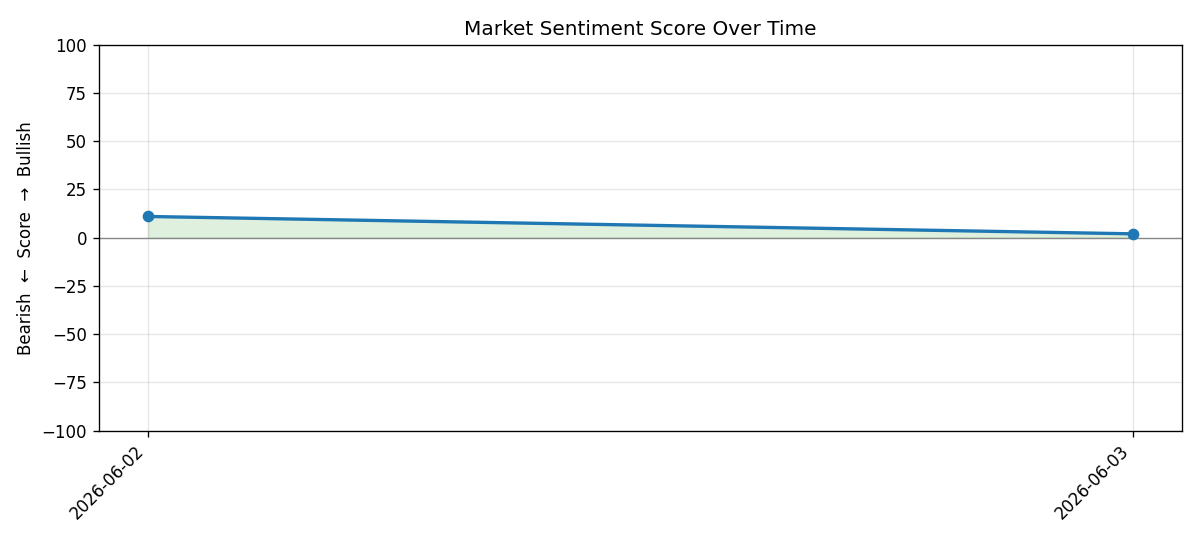
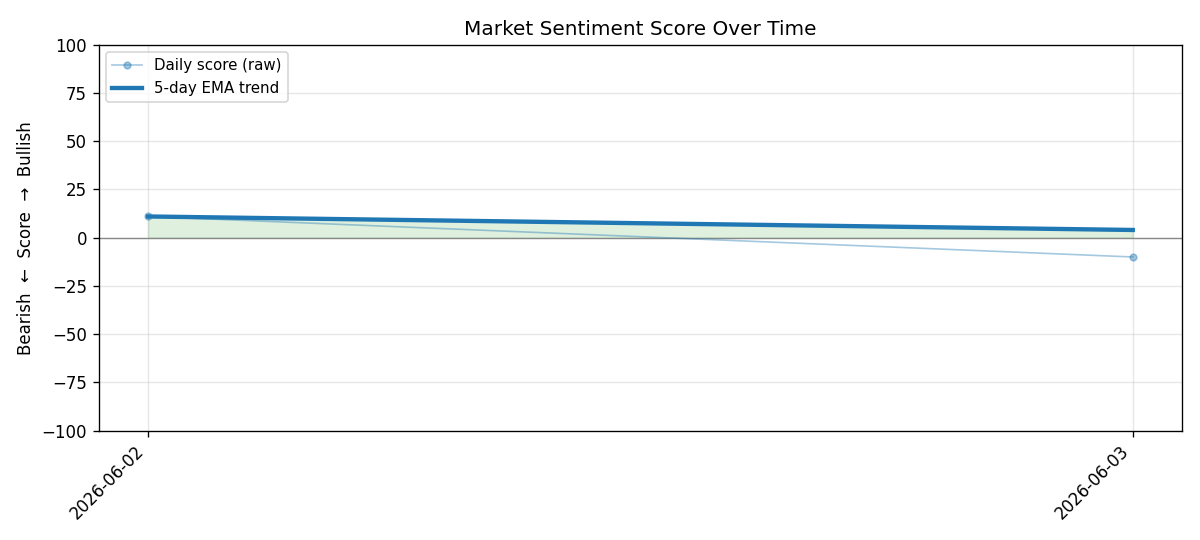
PDF: charts on own page, fix Sector Watch blank page, dual sector benchmarks
- Trend charts now get their own PDF page (enlarged 12cm → 17cm to match).
- Fix Sector Watch silently vanishing (blank page): a local `sector_watch = []`
  shadowed the imported module, so build_sector_watch() raised AttributeError
  and was swallowed. Renamed the local to `watch_rows`.
- build_html now drops empty sections (and their page breaks) so a missing block
  never leaves a blank page again.
- Sector Watch relative strength is now measured against the right benchmark:
  tech baskets (Hyperscalers, Memory, Semis, Networking, SaaS) vs the Nasdaq 100,
  the rest (Banking, Consumer, Pharma/Healthcare) vs the S&P 500. Each row is
  tagged with its benchmark in the table and markdown.

44 tests pass.

Changed region(s): [[0.1233, 0.3852, 0.9558, 0.4741], [0.0925, 0.0889, 0.2467, 0.2074], [0.925, 0.4741, 0.9558, 0.5037]]

diff --git a/pdf_report.py b/pdf_report.py
@@ -44,8 +44,8 @@ tr:nth-child(even) td { background: #f3f6fa; }
 .news-src { color: #888; font-size: 8.5pt; }
 .news-sum { color: #444; font-size: 9pt; }
 .note { background: #fdecea; border-left: 5px solid #c0392b; padding: 6px 10px; }
-/* Charts sit on the dashboard page, so keep them small enough to fit together. */
-img { width: 12cm; }
+/* Charts have their own page, so they can run close to the full text width. */
+img { width: 17cm; }
 """
 
 
@@ -131,7 +131,13 @@ def _sector_watch_block(rows: list) -> str:
     body = ""
     for r in rows:
         move = _chg(r.get("move_pct"), pct=True) if r.get("move_pct") is not None else "n/a"
-        rs = _chg(r.get("rel_strength"), pct=True) if r.get("rel_strength") is not None else "n/a"
+        rs_val = r.get("rel_strength")
+        if rs_val is not None:
+            # Tag each row with the benchmark it's measured against (Nasdaq / S&P).
+            bench = r.get("benchmark", "S&P").replace("&", "&amp;")
+            rs = f'{_chg(rs_val, pct=True)} <span class="news-src">vs {bench}</span>'
+        else:
+            rs = "n/a"
         breadth = f"{r['breadth_pct']}%" if r.get("breadth_pct") is not None else "n/a"
         news = _sentiment_label(r.get("news_score"))
         # Overall: label + numeric score, coloured by sign so resolution isn't lost.
@@ -143,8 +149,9 @@ def _sector_watch_block(rows: list) -> str:
     return (f"<h2>Sector Watch (AI Stack)</h2>"
             f'<p class="news-src">Blended score from relative strength, breadth '
             f"(avg % of the 20/50/200-day MAs the basket trades above), news, "
-            f"volume, and Reddit. Sorted strongest&rarr;weakest.</p>"
-            f"<table><tr><th>Sector</th><th>Move</th><th>vs S&amp;P</th>"
+            f"volume, and Reddit. Relative strength is vs the Nasdaq for tech "
+            f"baskets and the S&amp;P for the rest. Sorted strongest&rarr;weakest.</p>"
+            f"<table><tr><th>Sector</th><th>Move</th><th>Rel. Str.</th>"
             f"<th>Breadth</th><th>News</th><th>Overall</th></tr>{body}</table>")
 
 
@@ -220,25 +227,29 @@ def build_html(date_str: str, prose_md: str, gainers: list, news: list,
     note = f'<div class="note">{stale_note}</div>' if stale_note else ""
     prose_html = md.markdown(prose_md or "", extensions=["extra"])
     dash_html = _dashboard_block(dashboard) if dashboard else ""
-    pb = '<div style="page-break-before: always;"></div>'   # one section per page
+
+    tables = _market_tables(market_data)
+    snapshot = f"<h2>Market Snapshot</h2>{tables}" if tables else ""
+    analyst = f"<h2>Analyst Summary</h2>{prose_html}" if prose_html.strip() else ""
+
+    # One section per page. Empty sections are dropped entirely (with their page
+    # break) so a missing block — e.g. a day the sector watch can't be built —
+    # never leaves a blank page behind. Charts get their own page.
+    pages = [
+        dash_html + _divergence_block(dashboard or {}),   # page 1: tone + divergence
+        _charts_block(chart_paths),                        # trend charts — own page
+        _sector_watch_block(sector_watch),                 # sector watch — own page
+        _gainers_block(gainers) + _news_block(news),       # gainers + news
+        snapshot,                                          # market snapshot
+        analyst,                                           # analyst summary
+    ]
+    pb = '<div style="page-break-before: always;"></div>'
+    body = pb.join(p for p in pages if p and p.strip())
     return f"""<html><head><meta charset="utf-8"><style>{CSS}</style></head><body>
 <h1>Daily Market Summary</h1>
 <div class="subtitle">{date_str}</div>
 {note}
-{dash_html}
-{_divergence_block(dashboard or {})}
-{_charts_block(chart_paths)}
-{pb}
-{_sector_watch_block(sector_watch)}
-{pb}
-{_gainers_block(gainers)}
-{_news_block(news)}
-{pb}
-<h2>Market Snapshot</h2>
-{_market_tables(market_data)}
-{pb}
-<h2>Analyst Summary</h2>
-{prose_html}
+{body}
 </body></html>"""
 
 

diff --git a/sector_watch.py b/sector_watch.py
@@ -5,7 +5,8 @@ AI-stack "Sector Watch": a professional-style, multi-metric read of 8 thesis
 baskets. For each basket it measures not just the average move, but *how* the
 sector is behaving underneath — the way a PM reads a sector:
 
-    Relative strength 35%  (sector move vs the S&P — leading or lagging?)
+    Relative strength 35%  (sector move vs its benchmark — leading or lagging?
+                            tech baskets vs the Nasdaq 100, the rest vs the S&P)
     Breadth           25%  (% of the basket above its 20/50/200-day MAs — is the
                             WHOLE sector participating, or a few names carrying it?)
     News sentiment    25%  (FinBERT on a dedicated Google News search)
@@ -95,6 +96,18 @@ SECTOR_BASKETS = {
 }
 
 
+# Relative strength is measured against the benchmark that best fits each basket:
+# the tech / AI-stack baskets track the Nasdaq 100 (their natural high-beta home),
+# while the broader-economy baskets track the S&P 500.
+NASDAQ_BASKETS = {
+    "Hyperscalers & Neoclouds",
+    "Memory (DRAM/NAND/HBM)",
+    "Semiconductors / Compute",
+    "Networking / Interconnect",
+    "SaaS",
+}
+
+
 def _median(values: list):
     """Median of a non-empty numeric list (mean of the two middle values if even)."""
     s = sorted(values)
@@ -175,8 +188,15 @@ def _reddit_sentiment(keywords: list, reddit_titles: list) -> tuple:
     return round(sum(sentiment.score_text(t, "vader") for t in matched) / len(matched), 4), len(matched)
 
 
-def build_sector_watch(reddit_titles: list = None, sp_move: float = None) -> list:
-    """Per-sector multi-metric read. sp_move is the S&P 500 daily % (for RS)."""
+def build_sector_watch(reddit_titles: list = None, sp_move: float = None,
+                        nasdaq_move: float = None) -> list:
+    """Per-sector multi-metric read.
+
+    Relative strength is each basket's move vs its benchmark: the tech baskets
+    (NASDAQ_BASKETS) vs the Nasdaq 100 daily % (`nasdaq_move`), the rest vs the
+    S&P 500 daily % (`sp_move`). If a basket's benchmark move is unavailable, RS
+    is simply omitted and the remaining sub-metrics renormalize.
+    """
     all_tickers = sorted({t for cfg in SECTOR_BASKETS.values() for t in cfg["tickers"]})
     try:
         data = _fetch_history(all_tickers)
@@ -198,10 +218,13 @@ def build_sector_watch(reddit_titles: list = None, sp_move: float = None) -> lis
         breadth_frac = (sum(strengths) / len(strengths)) if strengths else None
         breadth_score = (2 * breadth_frac - 1) if breadth_frac is not None else None
 
-        # Relative strength: sector move vs the S&P.
+        # Relative strength: sector move vs its benchmark (tech → Nasdaq, else S&P).
+        use_nasdaq = name in NASDAQ_BASKETS
+        bench_move = nasdaq_move if use_nasdaq else sp_move
+        bench_label = "Nasdaq" if use_nasdaq else "S&P"
         rs_score = None
-        if basket_move is not None and sp_move is not None:
-            rs_score = _clamp((basket_move - sp_move) / RS_FULL_SCALE_PCT)
+        if basket_move is not None and bench_move is not None:
+            rs_score = _clamp((basket_move - bench_move) / RS_FULL_SCALE_PCT)
 
         # Volume: above-average volume CONFIRMS the day's direction. Only
         # above-average volume contributes (floored at 0): below-average volume
@@ -231,7 +254,8 @@ def build_sector_watch(reddit_titles: list = None, sp_move: float = None) -> lis
 
         rows.append({
             "sector": name, "move_pct": basket_move,
-            "rel_strength": round(basket_move - sp_move, 2) if (basket_move is not None and sp_move is not None) else None,
+            "rel_strength": round(basket_move - bench_move, 2) if (basket_move is not None and bench_move is not None) else None,
+            "benchmark": bench_label,
             "breadth_pct": round(breadth_frac * 100) if breadth_frac is not None else None,
             "news_score": news_score, "news_n": news_n,
             "reddit_score": reddit_score, "reddit_n": reddit_n,
@@ -250,6 +274,7 @@ def render_md(rows: list) -> str:
         move = f"{r['move_pct']:+.2f}%" if r["move_pct"] is not None else "n/a"
         rs = f"{r['rel_strength']:+.2f}%" if r["rel_strength"] is not None else "n/a"
         breadth = f"{r['breadth_pct']}% trend" if r["breadth_pct"] is not None else "n/a"
-        lines.append(f"- {r['sector']}: {move} (vs S&P {rs}) | breadth {breadth} "
+        bench = r.get("benchmark", "S&P")
+        lines.append(f"- {r['sector']}: {move} (vs {bench} {rs}) | breadth {breadth} "
                      f"| **{r['label']}** ({r['score']:+.2f})")
     return "\n".join(lines)

diff --git a/market_summary.py b/market_summary.py
@@ -382,12 +382,15 @@ def main():
     # AI-stack Sector Watch: per-basket price move + news/Reddit sentiment.
     # Display-only — does NOT feed the composite score.
     print("\nBuilding AI-stack sector watch…")
-    sector_watch = []
+    watch_rows = []   # NB: keep this name distinct from the `sector_watch` module
     try:
         _, reddit_titles, _ = news_feeds.split_headlines(headlines)
-        sp_move = (market_data.get("indices", {}).get("S&P 500", {}) or {}).get("pct_change")
-        sector_watch = sector_watch.build_sector_watch(reddit_titles, sp_move)
-        watch_block = sector_watch.render_md(sector_watch)
+        idx = market_data.get("indices", {})
+        sp_move = (idx.get("S&P 500", {}) or {}).get("pct_change")
+        nasdaq_move = (idx.get("Nasdaq 100", {}) or {}).get("pct_change")
+        # Tech baskets are measured vs the Nasdaq, the rest vs the S&P (see module).
+        watch_rows = sector_watch.build_sector_watch(reddit_titles, sp_move, nasdaq_move)
+        watch_block = sector_watch.render_md(watch_rows)
         if watch_block:
             data_block += "\n" + watch_block + "\n"
     except Exception as exc:
@@ -472,7 +475,7 @@ def main():
         html = report_module.build_html(
             today_pretty, prose, gainers, top_news, dashboard or {},
             market_data, chart_paths, stale_note=stale_note,
-            sector_watch=sector_watch)
+            sector_watch=watch_rows)
         if report_module.write_pdf(html, pdf_path):
             print(f"📄 PDF briefing written to {pdf_path}")
         else: